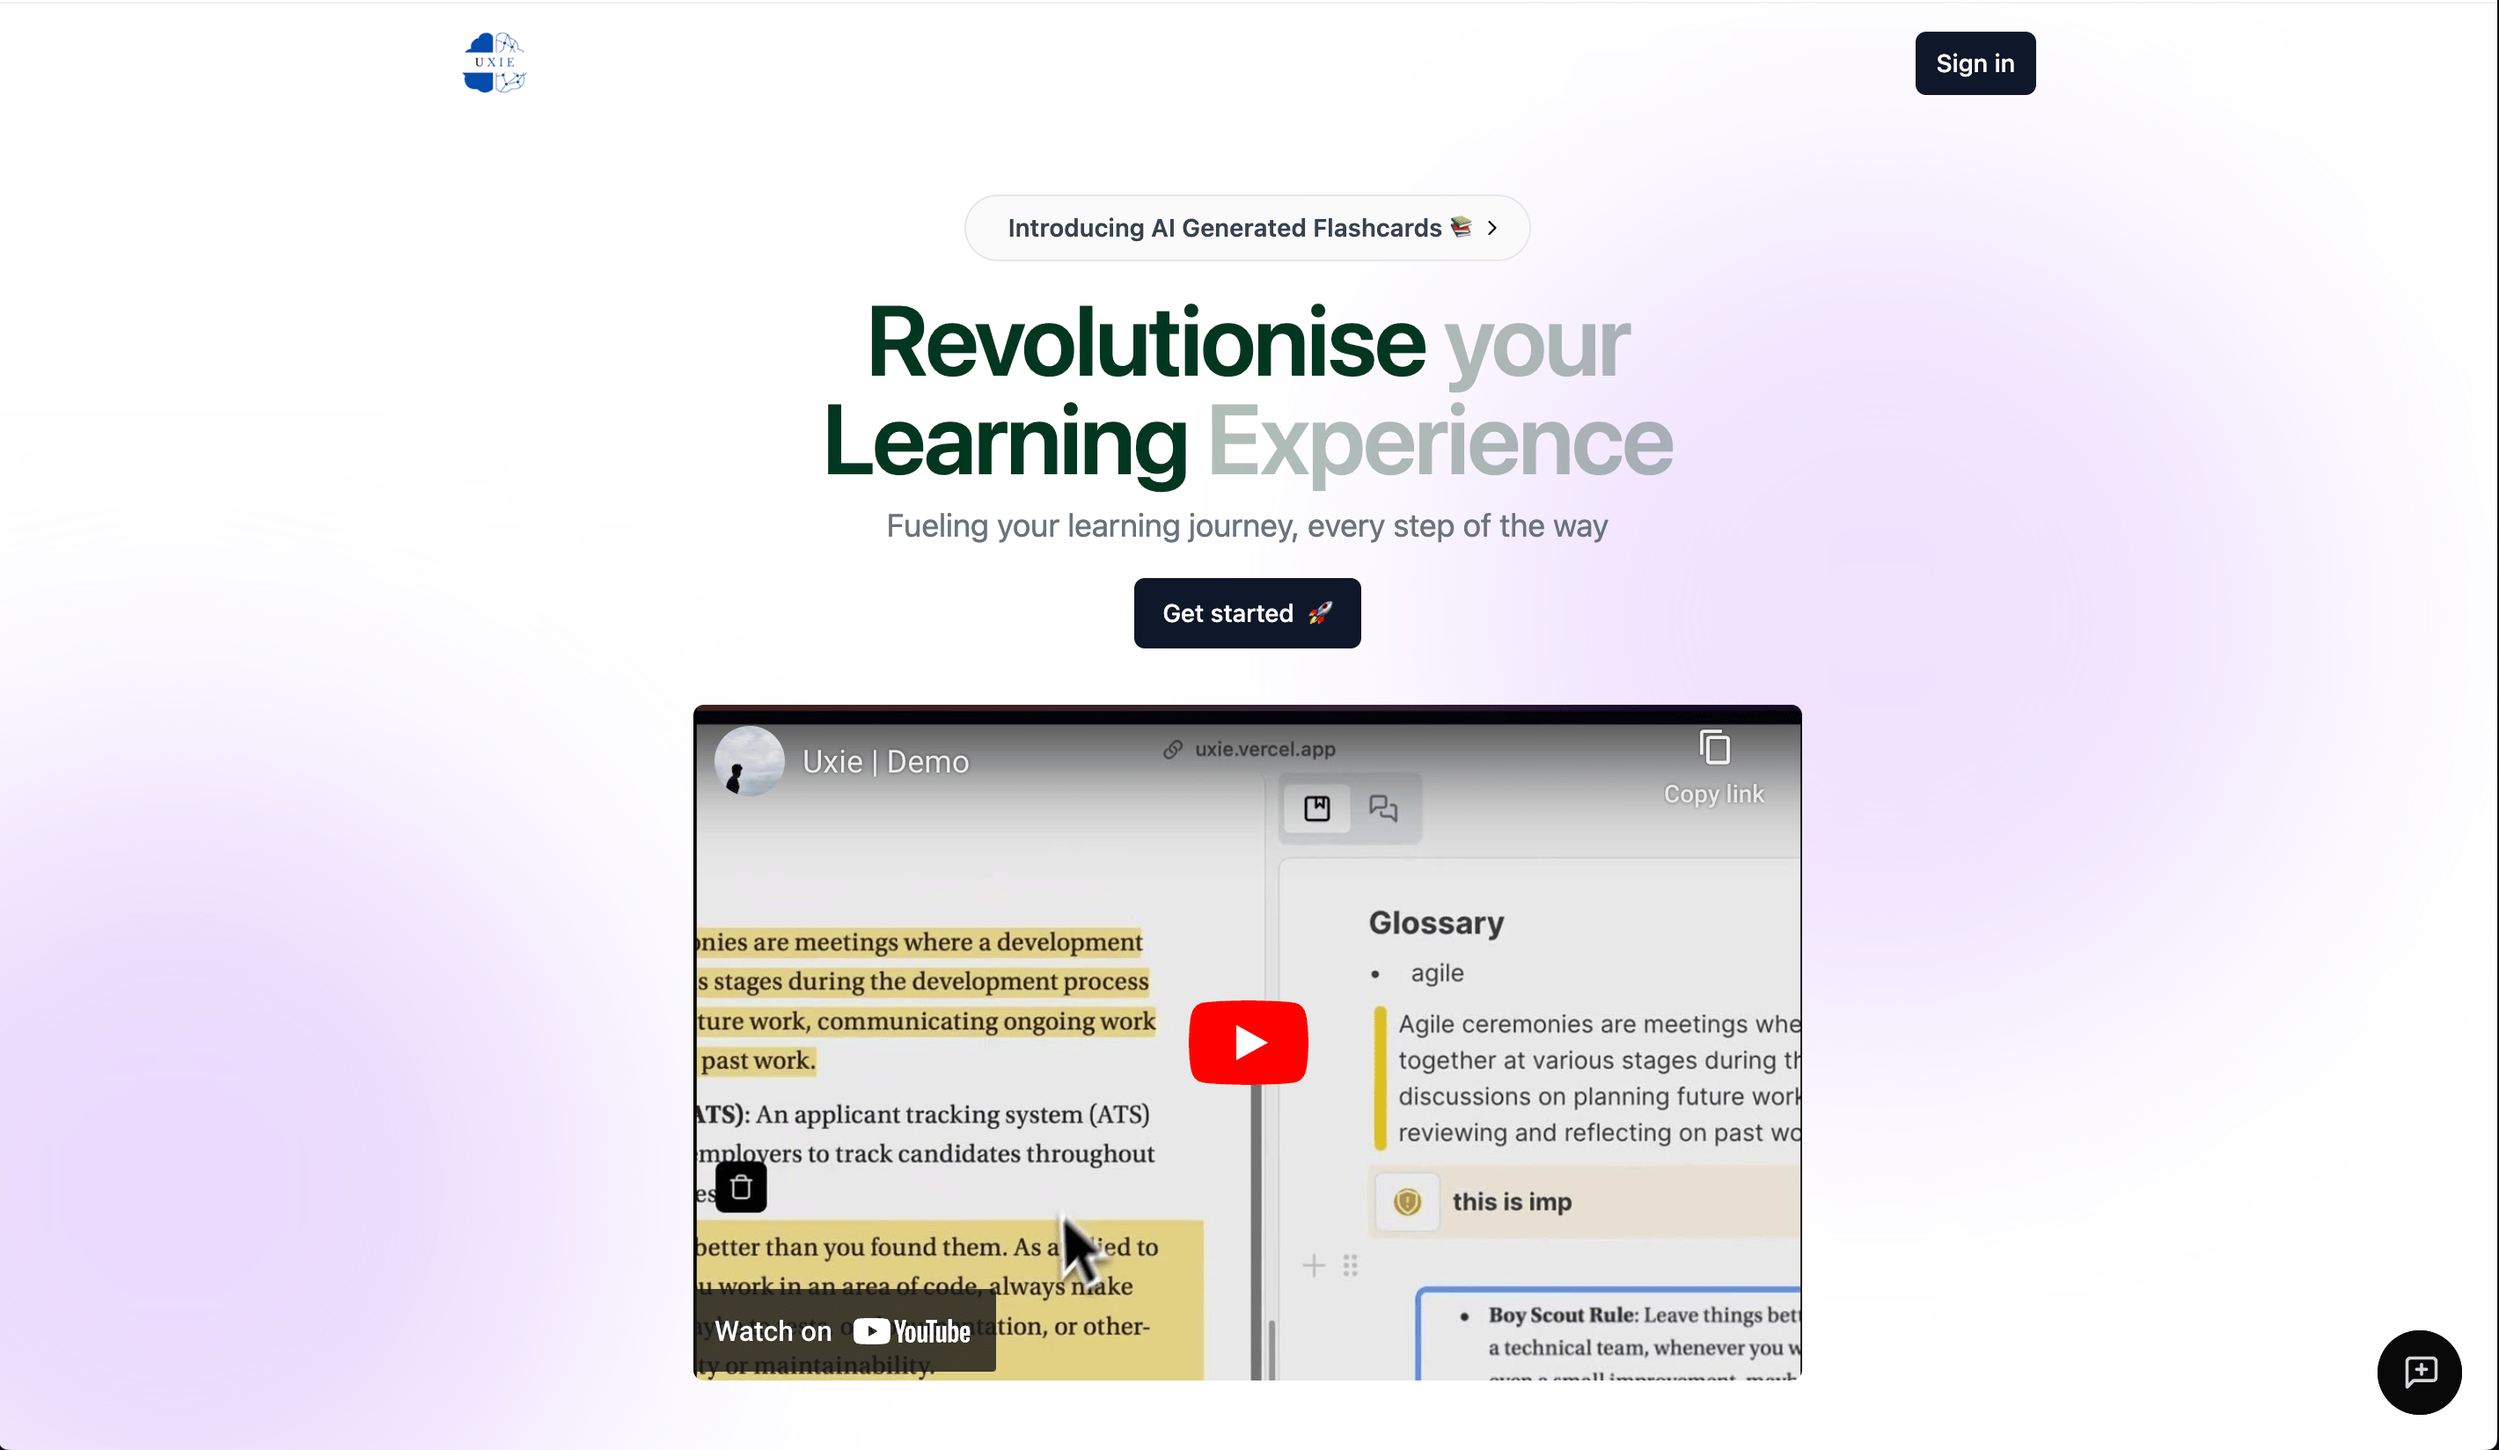
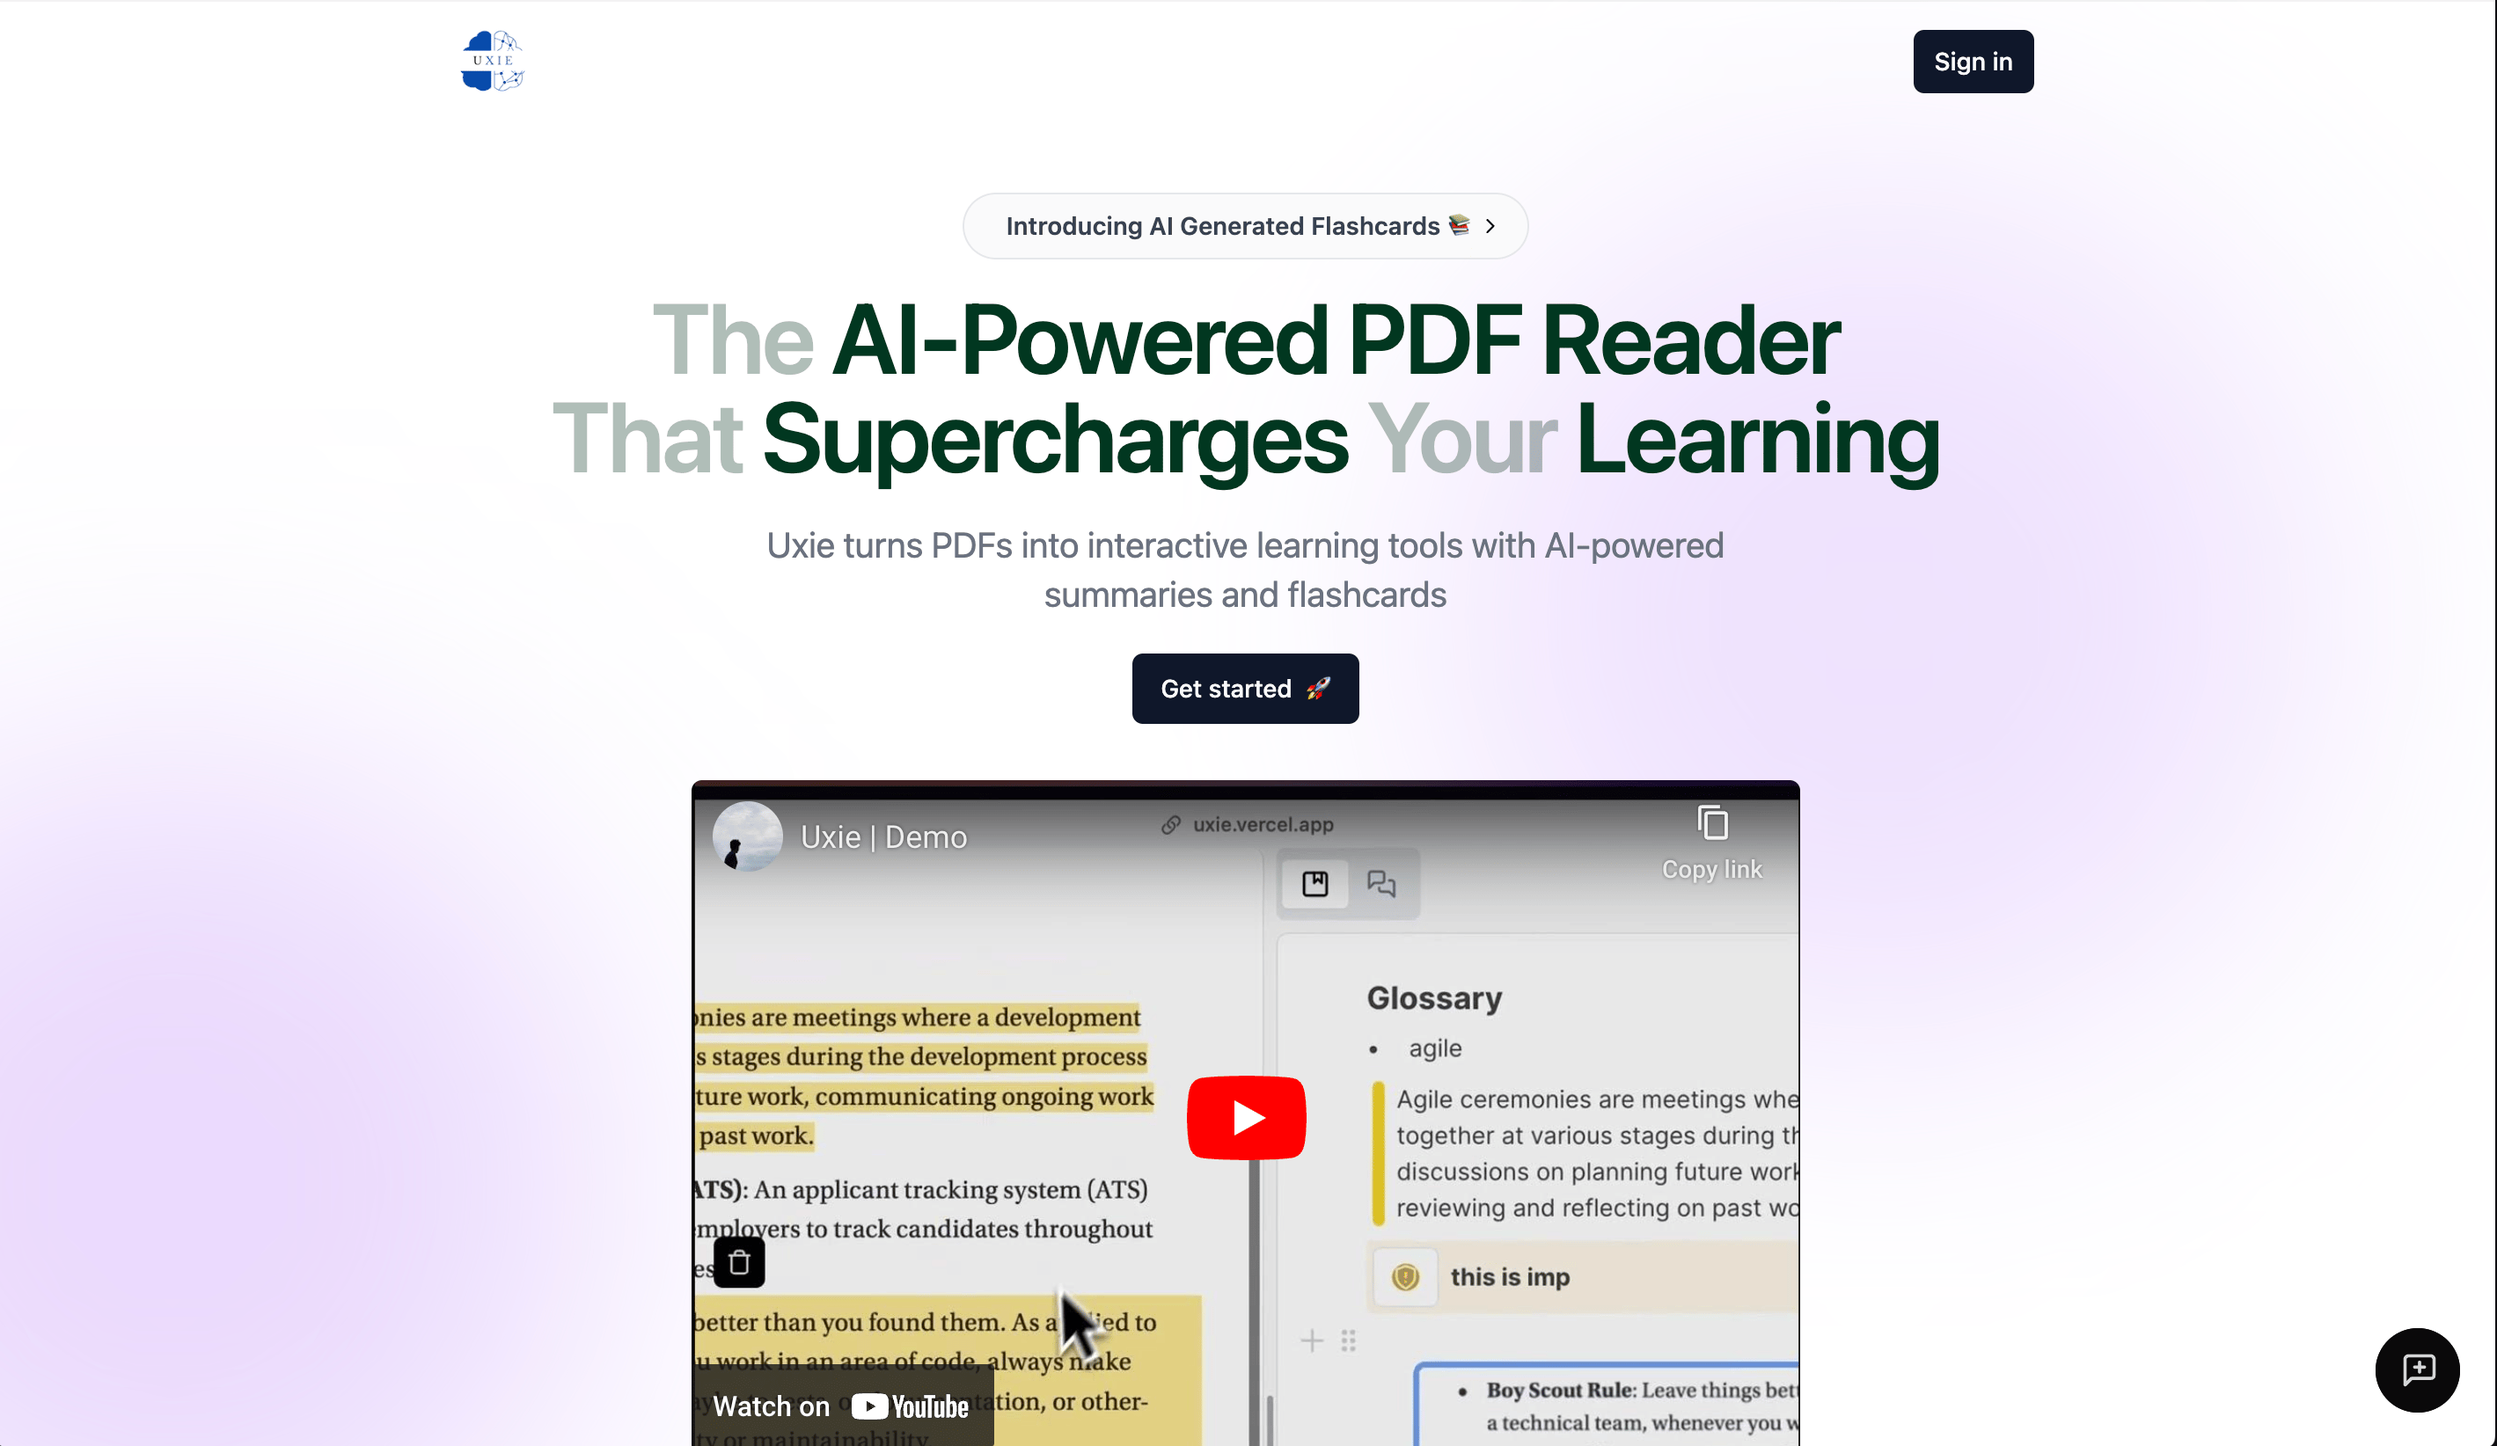
update hero section

diff --git a/src/pages/index.tsx b/src/pages/index.tsx
@@ -82,18 +82,19 @@ const HeroSection = () => {
           </div>
         </a>
 
-        <p className="2xl:text-[5rem mt-2 max-w-xl text-center text-4xl font-semibold tracking-tight text-[#013720] sm:text-5xl lg:text-[3.5rem] lg:leading-none">
+        <p className="2xl:text-[5rem] mt-2 max-w-4xl text-center text-4xl font-semibold tracking-tight text-[#013720] sm:text-5xl lg:text-[3.5rem] lg:leading-none">
           <Balancer>
-            {/* <span className="hero-underline underline	decoration-purple-300 decoration-solid"> */}
-            Revolutionise <span className="opacity-[.32]">your</span> Learning{" "}
-            <span className="opacity-[0.32]">Experience</span>
+            <span className="opacity-[.32]">The</span> AI-Powered PDF Reader{" "}
+            <span className="opacity-[.32]">That</span> Supercharges{" "}
+            <span className="opacity-[.32]">Your</span> Learning
           </Balancer>
         </p>
 
-        <p className="2xl:text-md text-center text-base text-gray-500 md:text-lg">
-          Fueling your learning journey, every step of the way
+        <p className="text-center text-md text-gray-500 md:text-xl max-w-xl md:my-3">
+          Uxie turns PDFs into interactive learning tools with AI-powered
+          summaries and flashcards
         </p>
-        <Link href="/f" className="group mt-2">
+        <Link href="/f" className="group">
           <Button>
             Get started
             <span className="ml-2 transition-all  group-hover:animate-pulse">
